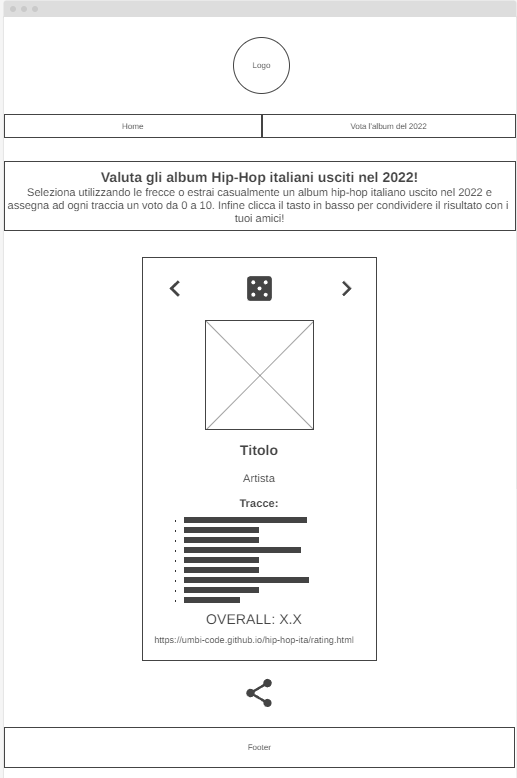
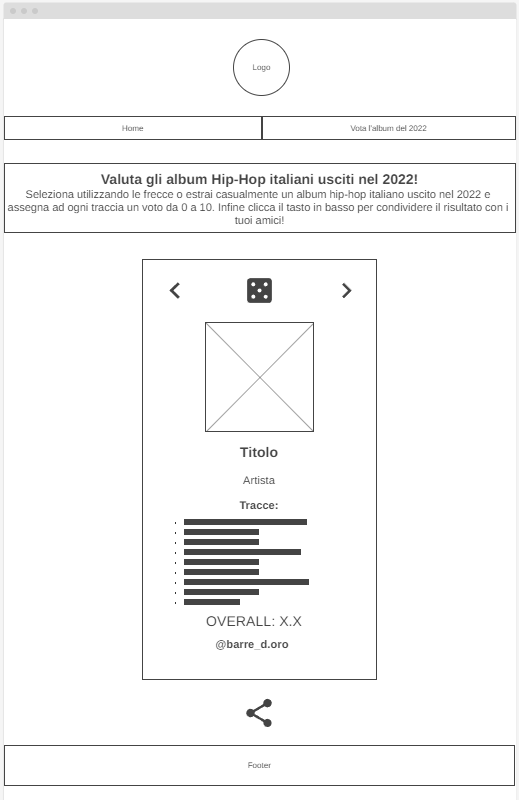
Add files via upload

diff --git a/documentazione.html b/documentazione.html
@@ -1,6 +1,7 @@
 <!DOCTYPE html>
 <html lang="it">
 <head>
+<script src="https://kit.fontawesome.com/aa5371266c.js" crossorigin="anonymous"></script>
   <meta charset="UTF-8">
   <meta name="viewport" content="width=device-width, initial-scale=1.0">
   <link rel="stylesheet" href="style3.css">
@@ -76,7 +77,7 @@
                             <li><p><b>Canva:</b> per il logo del sito;</p></li>
                             <li><p><b>Wireframe.cc:</b> per disegnare il wireframe delle pagine;</p></li>
                             <li><p><b>GitHub:</b> per la pubblicazione del sito;</p></li>
-                            <li><p><b>Icons8:</b> per le icone;</p></li>
+                            <li><p><b>Icons8 e Font Awesome:</b> per le icone;</p></li>
                         </ul>
                     </li>
                 </ol>
@@ -100,7 +101,7 @@
             </li>
 
             <li>
-                <h2>Obiettivi comunicativi</h2> <p>Il progetto ha come obiettivo quello di creare uno spazio in cui gli i fan del genere hip-hop possano leggere la storia dellhip-hop italiano e votare gli album del 2022. Concretamente l'obiettivo che ho deciso di perseguire è quello di raggiungere almeno 50 visite al sito.</p>
+                <h2>Obiettivi comunicativi</h2> <p>Il progetto ha come obiettivo quello di creare uno spazio in cui gli i fan del genere hip-hop possano leggere la storia dellhip-hop italiano e votare gli album del 2022. Concretamente l'obiettivo che ho deciso di perseguire è quello di raggiungere almeno 20 likes su un post su instagram.</p>
             </li>
 
             <li>
@@ -112,7 +113,7 @@
             </li>
 
             <li>
-                <h2>Valutazione dei risultati</h2> <p>...</p>
+                <h2>Valutazione dei risultati</h2> <img src="screenshot_instagram.png" alt=""><p>L'obiettivo del raggiungimento di almeno 20 like su instagram è stato superato!</p>
             </li>
         </ol>
     </div>

diff --git a/rating.html b/rating.html
@@ -10,6 +10,7 @@
 
   gtag('config', 'G-WW6W6HFK83');
 </script>
+<script src="https://kit.fontawesome.com/aa5371266c.js" crossorigin="anonymous"></script>
     <meta charset="UTF-8">
     <meta name="viewport" content="width=device-width, initial-scale=1.0">
     <link rel="stylesheet" href="style2.css">
@@ -57,7 +58,7 @@
                     </tbody>
                 </table>
                 <p id="overall-rating">OVERALL: </p>
-                <h4>https://umbi-code.github.io/hip-hop-ita/rating.html</h4>
+                <a href="https://www.instagram.com/barre_d.oro/?hl=it"><i class="fa-brands fa-instagram" style="color: #dfcc89;"></i> @barre_d.oro</a>
             </div>
         </div>
     </div>
@@ -66,6 +67,7 @@
     </div>
     <footer>
         <p>©2023 Sito realizzato da: Umberto Gottardi</p>
+        <a href="https://www.instagram.com/barre_d.oro/?hl=it"><i class="fa-brands fa-instagram" style="color: #dfcc89;"></i> @barre_d.oro</a> <br>
         <a href="documentazione.html">DOCUMENTAZIONE</a>
       </footer>
 

diff --git a/home.html b/home.html
@@ -10,6 +10,7 @@
 
   gtag('config', 'G-WW6W6HFK83');
 </script>
+<script src="https://kit.fontawesome.com/aa5371266c.js" crossorigin="anonymous"></script>
   <meta charset="UTF-8">
   <meta name="viewport" content="width=device-width, initial-scale=1.0">
   <link rel="stylesheet" href="style1.css">
@@ -177,6 +178,7 @@
 
       <footer>
         <p>©2023 Sito realizzato da: Umberto Gottardi</p>
+        <a href="https://www.instagram.com/barre_d.oro/?hl=it"><i class="fa-brands fa-instagram" style="color: #dfcc89;"></i> @barre_d.oro</a> <br>
         <a href="documentazione.html">DOCUMENTAZIONE</a>
       </footer>
 

diff --git a/style2.css b/style2.css
@@ -204,9 +204,18 @@ footer a{
   text-decoration: none;
 }
 
-h4{
+.tracks a{
   color:rgb(223, 204, 137);
-  font-size: small;
+  font-size: larger;
+  text-decoration: none;
+}
+
+footer a:hover {
+  text-decoration: underline;
+}
+
+.tracks a:hover{
+  text-decoration: underline;  
 }
 
 .share button {

diff --git a/style1.css b/style1.css
@@ -172,6 +172,10 @@ footer a{
   text-decoration: none;
 }
 
+footer a:hover {
+  text-decoration: underline;
+}
+
 @media (max-width: 480px) { 
 
   .flip-card {
